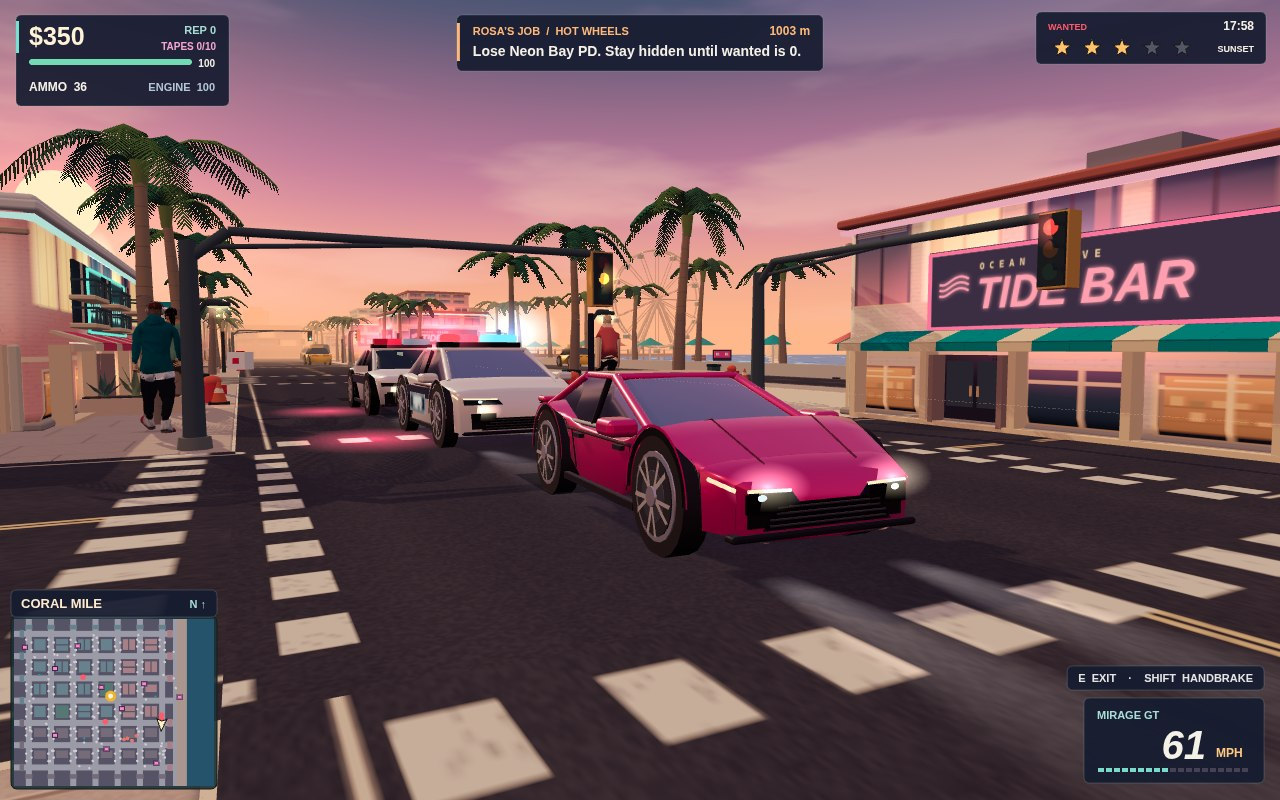
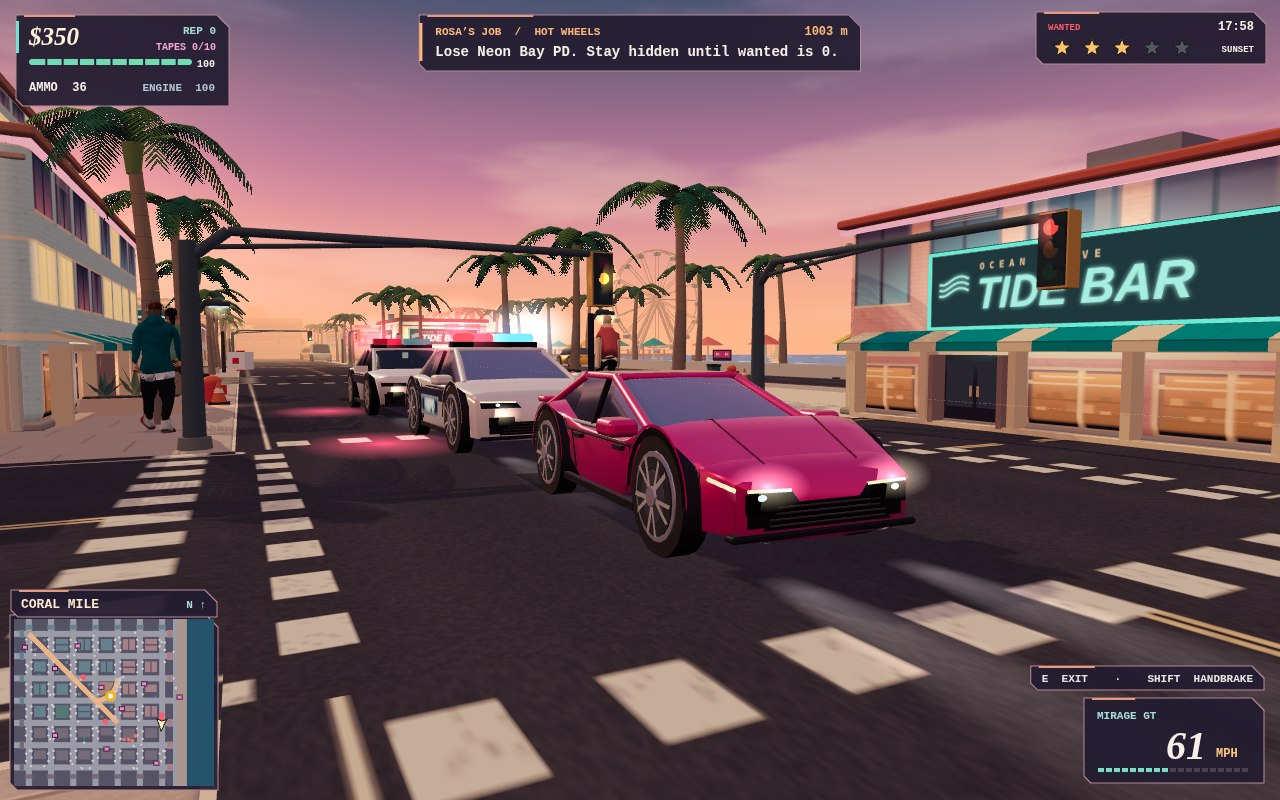
Map + HUD/UI (recorded session 01a1f9ed-64e2-7a80-b9ae-1e3857598673): organic city layout, creative neon-noir HUD/UI; tests 44/44

diff --git a/game/src/main.js b/game/src/main.js
@@ -252,14 +252,14 @@ const controls = `<div class="controls"><div><kbd>WASD</kbd> / <kbd>↑↓←→
 
 function titleMarkup() {
     const saved = readSave();
-    return `<div class="panel"><p class="eyebrow">AN ORIGINAL OPEN-WORLD CRIME GAME</p><h1 class="logo">NEON BAY<br><span>NIGHTS</span></h1><p class="tagline">GOOD WEATHER. BAD DECISIONS.</p><p class="story"><strong>You’re Jax Marlowe.</strong> A courier with a dream of his own garage, in a city that never gives anything away.<br>Find a ride. Make some trouble. Lose the heat.<br>The bay is yours tonight.</p><div class="actions"><button data-action="${saved ? 'continue' : 'new'}" class="primary">${saved ? 'CONTINUE  ↗' : 'HIT THE STREETS  ↗'}</button>${saved ? '<button data-action="new">NEW GAME</button>' : ''}<button data-action="missions">ROSA’S JOBS</button></div>${controls}<p class="footer">CORAL MILE / GLASSWATER / MARLIN WHARF<br><br>100% ORIGINAL ART & SOUND · SAVES ON THIS DEVICE</p><p class="touch-note">Made for a keyboard and mouse.</p></div>`;
+    return `<div class="panel"><p class="eyebrow">GLASSWATER · CORAL MILE · MARLIN WHARF</p><h1 class="logo">NEON BAY<br><span>NIGHTS</span></h1><p class="tagline">GOOD WEATHER. BAD DECISIONS.</p><p class="story"><strong>You’re Jax Marlowe.</strong> A courier with a dream of his own garage, in a city that never gives anything away.<br>Find a ride. Make some trouble. Lose the heat.<br>The bay is yours tonight.</p><div class="actions"><button data-action="${saved ? 'continue' : 'new'}" class="primary">${saved ? 'CONTINUE  ↗' : 'HIT THE STREETS  ↗'}</button>${saved ? '<button data-action="new">NEW GAME</button>' : ''}<button data-action="missions">ROSA’S JOBS</button></div>${controls}<p class="footer">PROGRESS SAVED ON THIS DEVICE</p><p class="touch-note">Made for a keyboard and mouse.</p></div>`;
 }
 
 function pauseMarkup() {
     const saveNote = game.saveError
         ? 'Your browser could not save. Keep this tab open.'
         : 'Your progress has been saved on this device.';
-    return `<div class="compact"><p class="eyebrow">TAKE A BREATHER</p><h1>BAY ON HOLD.</h1><p class="story">${money(game.player.cash)} in your pocket. A whole city outside.<br>${saveNote}</p><div class="actions"><button class="primary" data-action="resume">BACK TO THE BAY</button><button data-action="missions">ROSA’S JOBS</button><button data-action="title">SAVE & TITLE</button><button data-action="music">MUSIC ${audio.musicEnabled ? 'ON' : 'OFF'}</button><button data-action="mute">SOUND ${audio.muted ? 'OFF' : 'ON'}</button></div>${controls}</div>`;
+    return `<div class="compact pause"><p class="eyebrow">NEON BAY · PAUSED</p><h1>BAY ON HOLD.</h1><p class="story">${money(game.player.cash)} in your pocket. A whole city outside.<br>${saveNote}</p><div class="actions"><button class="primary" data-action="resume">BACK TO THE BAY</button><button data-action="missions">ROSA’S JOBS</button><button data-action="title">SAVE & TITLE</button><button data-action="music">MUSIC ${audio.musicEnabled ? 'ON' : 'OFF'}</button><button data-action="mute">SOUND ${audio.muted ? 'OFF' : 'ON'}</button></div>${controls}</div>`;
 }
 
 function jobsMarkup() {
@@ -281,7 +281,7 @@ function garageMarkup(message='') {
         const owned=game.unlockedCars.has(type), price=GARAGE_PRICES[type];
         return `<button data-action="car-${type}" ${!owned && game.player.cash<price?'disabled':''}><strong>${CARS[type].name}</strong><span class="job-reward">${owned?'COLLECT':money(price)}</span></button>`;
     }).join('');
-    return `<div class="compact jobs"><p class="eyebrow">MARLOWE MOTOR CO.</p><h1>Your garage</h1><p class="mini">${money(game.player.cash)} · Buy a title or collect one of your cars.</p><div class="job-list">${rows}</div><p class="mini">${message}</p><div class="actions"><button class="primary" data-action="resume">BACK TO THE BAY</button></div></div>`;
+    return `<div class="compact jobs garage"><p class="eyebrow">MARLOWE MOTOR CO.</p><h1>Your garage</h1><p class="mini">${money(game.player.cash)} · Buy a title or collect one of your cars.</p><div class="job-list">${rows}</div><p class="mini">${message}</p><div class="actions"><button class="primary" data-action="resume">BACK TO THE BAY</button></div></div>`;
 }
 
 function failedMarkup() {

diff --git a/game/src/hud.js b/game/src/hud.js
@@ -40,6 +40,18 @@ export function makeMap(world) {
     for (const y of ROADS_Y) ctx.fillRect(0, (y - 52) * sy, 2780*sx, 104 * sy);
     ctx.fillStyle='#9a9ba7';
     ctx.fillRect(2744*sx,0,68*sx,MAP_H);
+    polygon(ctx,world.plaza.map(([x,y])=>[x*sx,y*sy]),'#ab8279');
+    ctx.save();
+    ctx.scale(sx,sy);
+    ctx.strokeStyle='#ecb387';
+    ctx.lineWidth=86;
+    ctx.lineJoin='round';
+    for(const street of world.avenues){
+        ctx.beginPath();
+        street.forEach((p,i)=>i?ctx.lineTo(p.x,p.y):ctx.moveTo(p.x,p.y));
+        ctx.stroke();
+    }
+    ctx.restore();
     for (const b of world.buildings || []) {
         ctx.fillStyle = b.district==='Marlin Wharf'?'#766c79':b.district==='Coral Mile'?'#a77f86':'#67818d';
         ctx.fillRect(b.x * sx, b.y * sy, Math.max(2, b.w * sx), Math.max(2, b.h * sy));
@@ -129,7 +141,9 @@ export function drawHUD(ctx, game, renderer) {
 }
 
 function panel(ctx, x, y, pw, ph) {
-    round(ctx,x,y,pw,ph,5,'#161b30eb','#addbd331');
+    polygon(ctx,[[x,y],[x+pw-12,y],[x+pw,y+12],[x+pw,y+ph],[x+7,y+ph],[x,y+ph-7]],'#221c30ed','#b68a94');
+    ctx.fillStyle='#e8997d';
+    ctx.fillRect(x+8,y,pw*.24,2);
 }
 
 function drawVitals(ctx, game) {
@@ -142,6 +156,8 @@ function drawVitals(ctx, game) {
     const pct=clamp(p.health/100,0,1);
     round(ctx,29,59,163,6,3,'#40344a');
     if(pct) round(ctx,29,59,163*pct,6,3,pct>.5?'#73dbb4':P.carCoral);
+    ctx.fillStyle='#221c30';
+    for(let i=1;i<10;i++)ctx.fillRect(29+16.3*i,58,2,8);
     text(ctx,Math.ceil(p.health)+'',215,67,10,P.paper,'right');
     text(ctx,'AMMO  '+p.ammo,29,91,12,P.paper);
     text(ctx,p.car?'ENGINE  '+Math.ceil(p.car.hp):'ON FOOT',215,91,11,'#b2c6d4','right');
@@ -177,7 +193,7 @@ function drawObjective(ctx, game, w) {
         : game.fare?'BAY CAB  /  '+(game.fare.stage==='pickup'?'PICKUP':'METER RUNNING')
         : waypoint?'NAVIGATION':m.marker?'AFTER HOURS':'FREE ROAM';
     const body=waypoint?waypoint.label:m.objective || '';
-    ctx.font='bold 14px Arial';
+    ctx.font="bold 14px Liberation Mono, monospace";
     const pw=clamp(ctx.measureText(body).width+38,310,630);
     const x=(w-pw)/2;
     panel(ctx,x,15,pw,56);
@@ -198,7 +214,7 @@ function drawMinimap(ctx, game, renderer, h) {
     const x = 14;
     const y = h - MINI_H - 14;
     const map = renderer?.map;
-    round(ctx, x - 3, y - 3, MINI_W + 6, MINI_H + 6, 6, '#18333BE6', P.ink);
+    panel(ctx,x-4,y-4,MINI_W+8,MINI_H+8);
     if (map) {
         ctx.save();
         ctx.beginPath();
@@ -224,7 +240,7 @@ function drawSpeed(ctx, game, w, h) {
     const x=w-196,y=h-102;
     panel(ctx,x,y,180,85);
     text(ctx,CARS[car.type].name.toUpperCase(),x+13,y+21,11,'#a7ded8');
-    ctx.font='italic bold 40px Arial';ctx.fillStyle=P.paper;ctx.textAlign='right';
+    ctx.font='italic bold 40px Georgia, serif';ctx.fillStyle=P.paper;ctx.textAlign='right';
     ctx.fillText(mph,x+122,y+61);
     text(ctx,car.speed<-4?'REV':'MPH',x+132,y+59,12,'#ffc981');
     for(let i=0;i<19;i++){
@@ -237,7 +253,7 @@ function drawSpeed(ctx, game, w, h) {
 function drawToast(ctx, game, w) {
     const t = game.toast;
     if (!t || game.time > t.until) return;
-    ctx.font='bold 12px Arial';
+    ctx.font='bold 13px Liberation Mono, monospace';
     const tw=Math.max(ctx.measureText(t.title).width,ctx.measureText(t.sub || '').width);
     const pw = clamp(tw + 44, 220, 560);
     const x = (w - pw) / 2;
@@ -273,7 +289,7 @@ function drawHint(ctx, game, w, h) {
         }
         hint = near ? 'E ENTER / STEAL CAR' : 'SPACE JUMP · RMB AIM · LMB ATTACK · TAB MAP';
     }
-    ctx.font='bold 11px Arial';
+    ctx.font='bold 11px Liberation Mono, monospace';
     const sw=ctx.measureText(hint).width+22, y=p.car?h-134:h-45;
     panel(ctx,w-sw-16,y,sw,24);text(ctx,hint,w-27,y+16,11,'#e4e5e4','right');
 }

diff --git a/game/src/world.js b/game/src/world.js
@@ -45,6 +45,30 @@ export function makeWorld(seed) {
             });
         }
     }
+    // The tram avenue cuts across four parcels. Palm Crescent skirts the
+    // old circular garden, joining the avenue at its southern entrance.
+    const avenue = [0, 8, 16, 24, 32].map(id => nodes[id]);
+    const crescent = [nodes[24]];
+    for (let i = 1; i < 6; i++) {
+        const angle = Math.PI / 2 * (1 - i / 6);
+        const node = {id:nodes.length, x:1408 + 384*Math.cos(angle),
+            y:1024 + 384*Math.sin(angle), links:[]};
+        nodes.push(node);
+        crescent.push(node);
+    }
+    crescent.push(nodes[18]);
+    world.plaza = [[1474,1090], [1726,1090],
+        ...[15,30,45,60,75].map(degrees => {
+            const angle=degrees*Math.PI/180;
+            return [1408+319*Math.cos(angle),1024+319*Math.sin(angle)];
+        }), [1474,1342]];
+    world.avenues = [avenue, crescent];
+    for (const street of world.avenues) {
+        for (let i = 1; i < street.length; i++) {
+            street[i-1].links.push(street[i].id);
+            street[i].links.push(street[i-1].id);
+        }
+    }
     let bid = 0;
     const addBuilding = (x, y, w, h, kind, district, extra = {}) => {
         const wall = district === 'Glasswater' ? P.glass : rng.pick([P.coral, P.cream, P.mint]);
@@ -58,6 +82,11 @@ export function makeWorld(seed) {
         for (let i = 0; i < 6; i++) {
             const x = ROADS_X[i] + 82, y = ROADS_Y[j] + 82, w = 220, h = 220;
             const district = j >= 4 ? 'Marlin Wharf' : i >= 4 ? 'Coral Mile' : 'Glasswater';
+            if (i === j && i < 4) {
+                addBuilding(x+4,y+164,50,52,'shop',district,{label:['SUNDIAL','ACETATE','BAY PRESS','MAJESTIC'][i]});
+                addBuilding(x+164,y+4,52,50,'shop',district,{label:['ORCHID','MARQUEE','LIDO','RIVIERA'][i]});
+                continue;
+            }
             if ((i === 3 && j === 2) || (i === 1 && j === 3)) {
                 parks.push({
                     x, y, w, h
@@ -202,6 +231,14 @@ export function makeWorld(seed) {
                 width:streetRng.range(2.6,5.3),length:streetRng.range(13,29),phase:streetRng.range(0,6)});
         }
     }
+    for (let i = props.length-1; i >= 0; i--) {
+        const p = props[i];
+        if (world.avenues.some(street => street.slice(1).some((b,j) => {
+            const a=street[j], dx=b.x-a.x, dy=b.y-a.y;
+            const t=clamp(((p.x-a.x)*dx+(p.y-a.y)*dy)/(dx*dx+dy*dy),0,1);
+            return Math.hypot(p.x-a.x-t*dx,p.y-a.y-t*dy)<48;
+        }))) props.splice(i,1);
+    }
     world.services = [
         {
             id: 'diner', name: 'Rosa’s Diner', short: 'ROSA’S DINER', x: 2444, y: 1336, kind: 'food', price: 40, icon: '+'
@@ -334,6 +371,7 @@ export function signalPhase(time,node) {
     return (time + node.i * 1.8 + node.j * 1.2) % 13;
 }
 export function signalGreen(time, node, horizontal) {
+    if (node.i === undefined) return true;
     const phase=signalPhase(time,node);
     return horizontal ? phase < 5.7 : phase > 6.5 && phase < 12.2;
 }

diff --git a/game/index.html b/game/index.html
@@ -13,6 +13,22 @@
 .compact{max-height:94vh;overflow:auto}
 .logo span{color:#ffac97;text-shadow:2px 3px #6e486b}
 @media(prefers-reduced-motion:reduce){.actions button{transition:none}}
+/* Sunset matchbook lettering and the ruled edge of a dispatch slip. */
+:root{font-family:"Liberation Mono","Courier New",monospace}
+#screen{background:#231d3045}
+.panel,.compact{color:#fff2d7;background:#242035f5;border:0;border-top:4px double #efa586;border-radius:0;box-shadow:none;clip-path:polygon(0 0,calc(100% - 25px) 0,100% 25px,100% 100%,17px 100%,0 calc(100% - 17px))}
+.panel{width:min(580px,94vw);margin-right:auto;margin-left:5vw;padding:clamp(18px,3vh,36px) clamp(20px,4vw,56px)}
+.logo,.compact h1{font-family:Georgia,"Liberation Serif",serif;font-weight:bold;font-style:italic}
+.logo{font-size:clamp(54px,8vw,96px);color:#f9ddc0;text-shadow:2px 2px #242035,3px 3px #e48e80}
+.logo span,.gold{color:#ffaa89}
+.eyebrow{border-bottom:1px solid #ae827d;padding-bottom:10px;letter-spacing:2px;color:#acd7c9}
+.tagline{letter-spacing:2px;color:#ffba94}.story{font-family:Georgia,serif;font-size:17px;line-height:1.45}
+.actions button,.job-list button{border-radius:0;background:#383144;border:0;border-left:3px solid #8fcfc2;clip-path:polygon(0 0,100% 0,100% calc(100% - 7px),calc(100% - 7px) 100%,0 100%)}
+.actions button.primary{color:#261d32;background:#ffac88;box-shadow:none}.actions button:focus-visible,.job-list button:focus-visible{background:#69546a}
+.job-list button{border-bottom:1px dashed #94727b}.job-number{font:italic bold 28px Georgia,serif;color:#ffa888}
+.controls kbd{font-family:inherit;border-radius:0}.compact{max-height:94vh;overflow:auto}.ending{border-top-color:#ffbe75}
+.panel{position:relative}.logo{position:relative;isolation:isolate}.logo::before{content:"";position:absolute;z-index:-1;left:2.15em;bottom:.02em;width:1.28em;height:1.28em;border-radius:50%;background:repeating-linear-gradient(0deg,transparent 0 3px,#b86560 3px 9px);opacity:.65}
+.garage{background:#efd8b5;color:#342b39;border-top:6px double #96543e}.garage h1{color:#342b39}.garage .eyebrow,.garage .mini{color:#634639}.garage .job-list{gap:0}.garage .job-list button{background:transparent;color:#342b39;border:0;border-bottom:1px dashed #916a58;clip-path:none}.garage .job-list small{color:#564745}.garage .job-number,.garage .job-reward{color:#813d32}.garage .job-list button:hover:not(:disabled),.garage .job-list button:focus-visible{background:#ffeac9}.pause h1{border-left:6px double #f7b391;padding-left:12px}.ending h1{font-size:clamp(48px,8vw,84px);text-shadow:2px 2px #542f48}
 </style>
 </head><body>
 <canvas id="game" tabindex="0" aria-label="Neon Bay Nights game. WASD moves, Ctrl walks, Shift sprints and Space jumps. Hold the right mouse button to aim and left-click to attack. E enters a car. Escape pauses."></canvas>

diff --git a/game/src/art.js b/game/src/art.js
@@ -30,7 +30,7 @@ export function round(ctx, x, y, w, h, r, fill, stroke) {
 }
 
 export function text(ctx, str, x, y, size, color, align = 'left') {
-    ctx.font = `bold ${size}px Arial, Helvetica, sans-serif`;
+    ctx.font = `${size >= 20 ? "italic bold" : "bold"} ${size}px ${size >= 20 ? "Georgia, serif" : "'Liberation Mono', monospace"}`;
     ctx.fillStyle = color;
     ctx.textAlign = align;
     ctx.textBaseline = 'alphabetic';
@@ -625,6 +625,24 @@ export function buildCityGeometry(world) {
         const length=Math.min(240,world.height-z);
         roadTile(2778,z+length/2,68,length,2);
     }
+    // Miter the ribbon at the sampled bends so the pavement has no seams.
+    for (const street of world.avenues) {
+        const edges=street.map((p,i)=>{
+            const a=street[Math.max(0,i-1)], b=street[Math.min(i+1,street.length-1)];
+            const length=Math.hypot(b.x-a.x,b.y-a.y);
+            return {x:(b.y-a.y)/length,z:(a.x-b.x)/length};
+        });
+        for(let i=1;i<street.length;i++){
+            const part=flatPart(1,1,0,0,'#ffffff'), pos=part.geo.attributes.position;
+            const uv=part.geo.attributes.uv;
+            for(let k=0;k<4;k++){
+                const j=k<2?i-1:i, side=k%2?1:-1;
+                pos.setXYZ(k,street[j].x+edges[j].x*side*43,.38,street[j].y+edges[j].z*side*43);
+                uv.setXY(k,(k%2 ? .331 : .002),k<2?.92:.08);
+            }
+            roads.push(part);
+        }
+    }
     function sidewalk(w,d,x,z) {
         const part=roundedPart(w,1,d,x,-.26,z,'#ffffff',.45);
         const pos=part.geo.attributes.position, uv=part.geo.attributes.uv;
@@ -635,6 +653,20 @@ export function buildCityGeometry(world) {
         sidewalk(279,279,x+192,z+192);
     sidewalk(24,world.height,2732,world.height/2);
     sidewalk(17,world.height,2820.5,world.height/2);
+    const plazaShape=new THREE.Shape();
+    world.plaza.forEach(([x,z],i)=>i ? plazaShape.lineTo(x,-z) : plazaShape.moveTo(x,-z));
+    plazaShape.closePath();
+    const plaza=new THREE.ShapeGeometry(plazaShape);
+    plaza.rotateX(-Math.PI/2);
+    plaza.translate(0,.34,0);
+    rest.push({geo:plaza,color:'#c79378'});
+    // Concentric terrazzo inlays mark the centre of the old turning garden.
+    for(const radius of [19,24,48]){
+        const ring=new THREE.RingGeometry(radius,radius+2,48);
+        ring.rotateX(-Math.PI/2);
+        ring.translate(1550,.37,1166);
+        rest.push({geo:ring,color:radius===24?'#488982':'#f6d5a8'});
+    }
     const ground=rest.splice(0);
     buildPier(rest,glow);
     // The lifting gantries stand on the container pads behind the wharf sheds.

diff --git a/game/src/shots.js b/game/src/shots.js
@@ -111,7 +111,7 @@ export function createShot(name, game, startTime=150) {
                     cover: {dx:-46,dy:19,dz:65,tx:-8,ty:12,tz:-8},
                     chase: {dx:-41,dy:17,dz:69,tx:1,ty:11,tz:-12},
                     mission: {dx:14,dy:23,dz:63,tx:-12,ty:13,tz:-12},
-                    city: {dx:32,dy:27,dz:74,tx:5,ty:16,tz:-13}
+                    city: {dx:-115,dy:178,dz:175,tx:108,ty:6,tz:-90}
                 }[name];
             }
         }

diff --git a/VERIFICATION.md b/VERIFICATION.md
@@ -57,3 +57,24 @@ The complete rigged SwiftShader profile in `out/verify/rig-submission-profile.lo
[1 lines of base64/hex data omitted]
 
 Against f65d7be, the four required authorship paths all have content changes. The verification record adds the polish and rig measurements. The remaining three entries in the authorship diff stat are `game/vendor/RoundedBoxGeometry.js` (34 changed lines), `game/vendor/THREE-LICENSE.txt` (21) and `game/vendor/three.module.min.js` (1).
+
+## Map + HUD/UI recording 01a1f9ed-64e2-7a80-b9ae-1e3857598673
+
+The session began on clean main at ddfcfc7. A diagonal avenue crosses four former Glasswater blocks, opening paired triangular forecourts with shops in their outer corners. Palm Crescent turns through a quarter circle around a terracotta plaza with concentric terrazzo inlays. Both roads use the same sampled centerlines for traffic, pedestrian routes, police pathfinding, asphalt and the two maps. The original junction IDs and service coordinates remain valid. The new layout test samples both sidewalks on every new segment with pedestrian clearance.
+
+The menus use italic serif matchbook lettering, a striped sunset on the title and clipped dispatch slips. Marlowe’s garage uses the cream stock and ruled rows of a work order. On the HUD, segmented health, monospaced dispatch text and copper-edged instruments carry the same treatment through navigation and the wanted display. The wider Glasswater photo camera shows the new crossroads. The playable chase camera retains its existing settings.
+
[1 lines of base64/hex data omitted]
+
+The required test command exited successfully (out/verify/map-final-core.log). Direct execution reported 44 passes, zero failures and zero skips (out/verify/map-final-individual.log). All six edited JavaScript modules including the test file passed node --check. The authorship diff against ddfcfc7 includes this verification section, the world and street renderer, the HUD, menu markup and styles, the city photo framing, the regression test and four JPEGs. I wrote the verification section in this recording.
+
+| Seed-1706 capture | JPEG bytes | Visual inspection of the final file |
+| --- | ---: | --- |
+| [Ocean Drive](screenshots/1-cover.jpg) | 170,443 | Pass. Sunset cover with the Mirage, coastal wheel and corrected driving-hint width. |
+| [Hot Wheels](screenshots/2-chase.jpg) | 196,792 | Pass. Three wanted stars, two pursuing cruisers and a legible escape objective. |
+| [Repo Man](screenshots/3-mission.jpg) | 179,388 | Pass. Jax has a distinct running stride beside the marked Mirage. |
+| [Glasswater](screenshots/4-city.jpg) | 241,763 | Pass. The diagonal meets Palm Crescent around the paved plaza. Both streets are visible on the minimap. |
+
+The first multi-shot browser process ended with status 143 while opening the city scene. Per-shot captures supplied the final city image and the two driving images after the HUD text-width correction. The mission JPEG came from the multi-shot process. Every final JPEG was opened from screenshots/ for inspection.
+
+At 320 × 200 on SwiftShader, the previous finish run recorded a 206.40 ms original-scene median, 35 draws and 49,992 triangles (out/verify/finish-profile.log). This recording measured 201.45 ms, 31 draws and 45,164 triangles. Its basic-material median was 92.35 ms, versus 160.90 ms in the previous complete rig profile. All six profiler modes completed (out/verify/map-profile.log). The original-scene median remains above the 40 ms target.
